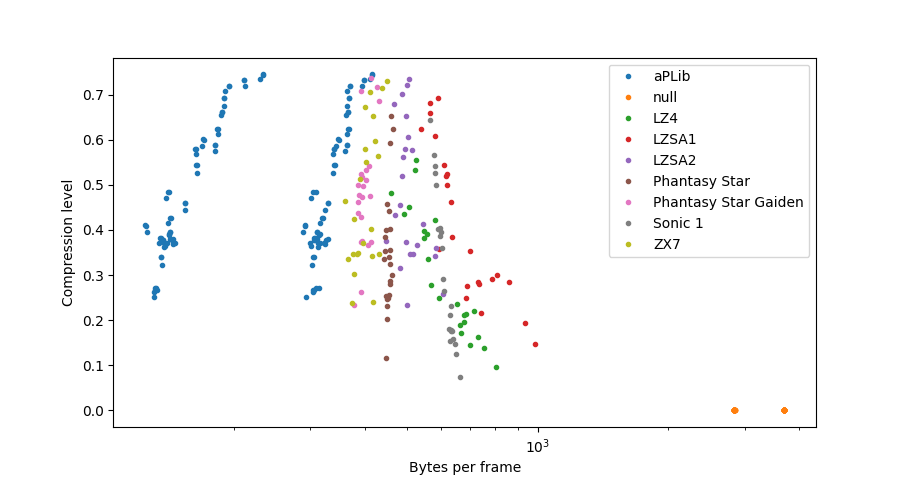
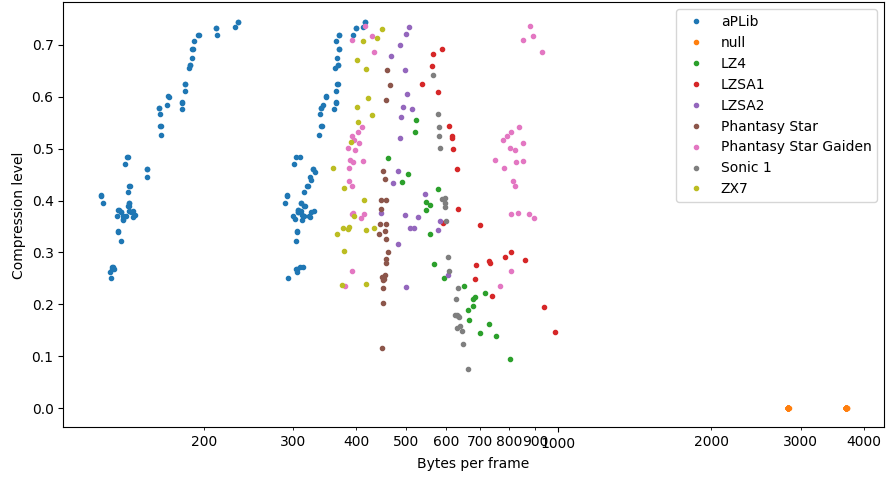
Added sverx's fast/big PSGaiden decompressor

diff --git a/benchmark/benchmark.py b/benchmark/benchmark.py
@@ -136,6 +136,9 @@ def main():
         )
     matplotlib.pyplot.xlabel("Bytes per frame")
     matplotlib.pyplot.xscale("log")
+    matplotlib.pyplot.minorticks_on
+    matplotlib.pyplot.gca().xaxis.set_major_formatter(matplotlib.ticker.ScalarFormatter())
+    matplotlib.pyplot.gca().xaxis.set_minor_formatter(matplotlib.ticker.ScalarFormatter())
     matplotlib.pyplot.ylabel("Compression level")
     matplotlib.pyplot.legend()
     matplotlib.pyplot.show()
